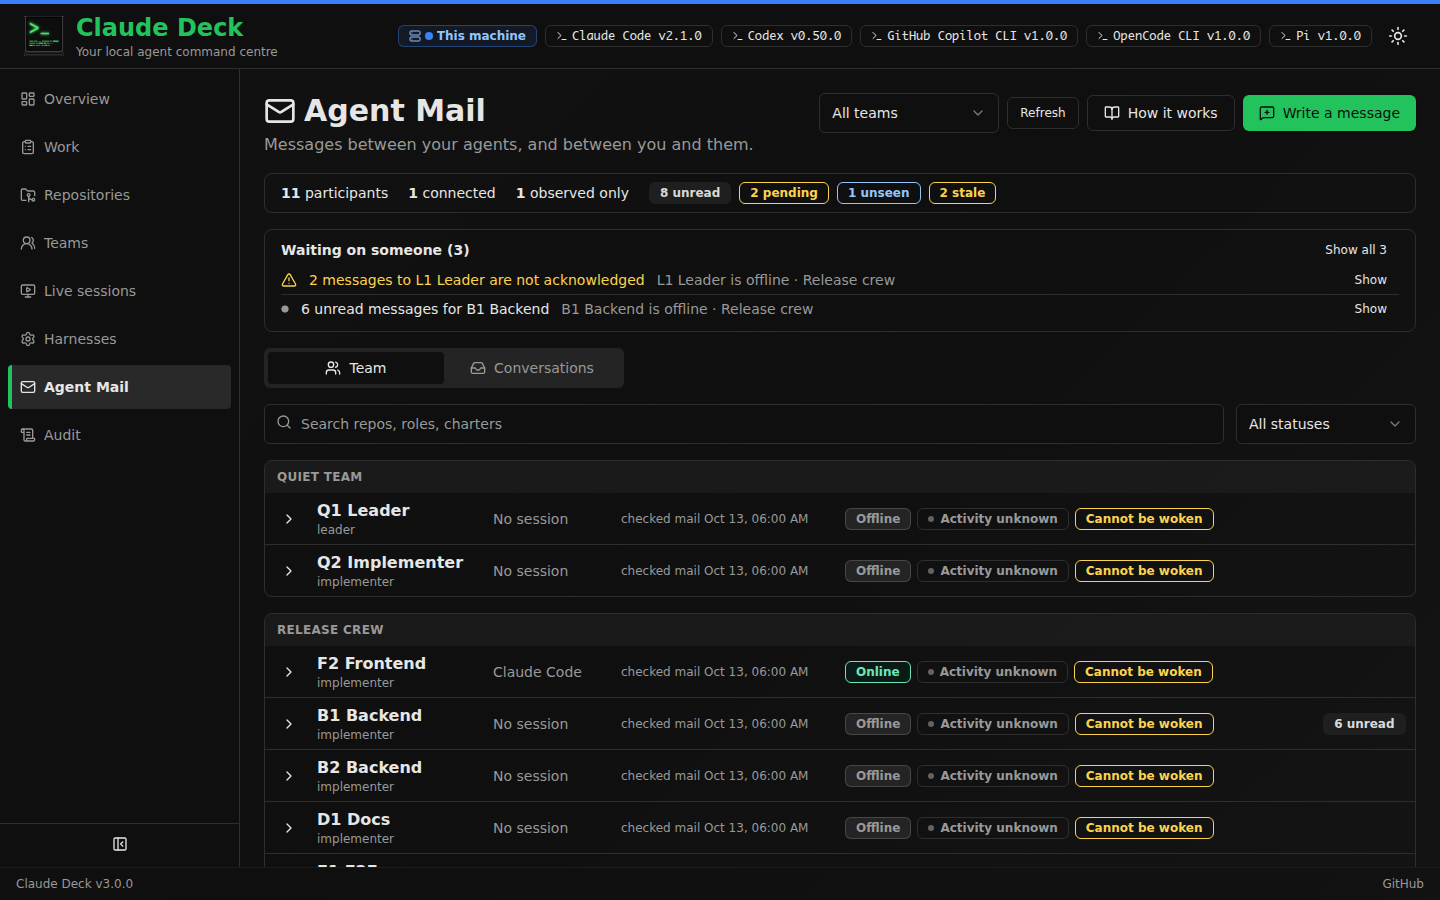
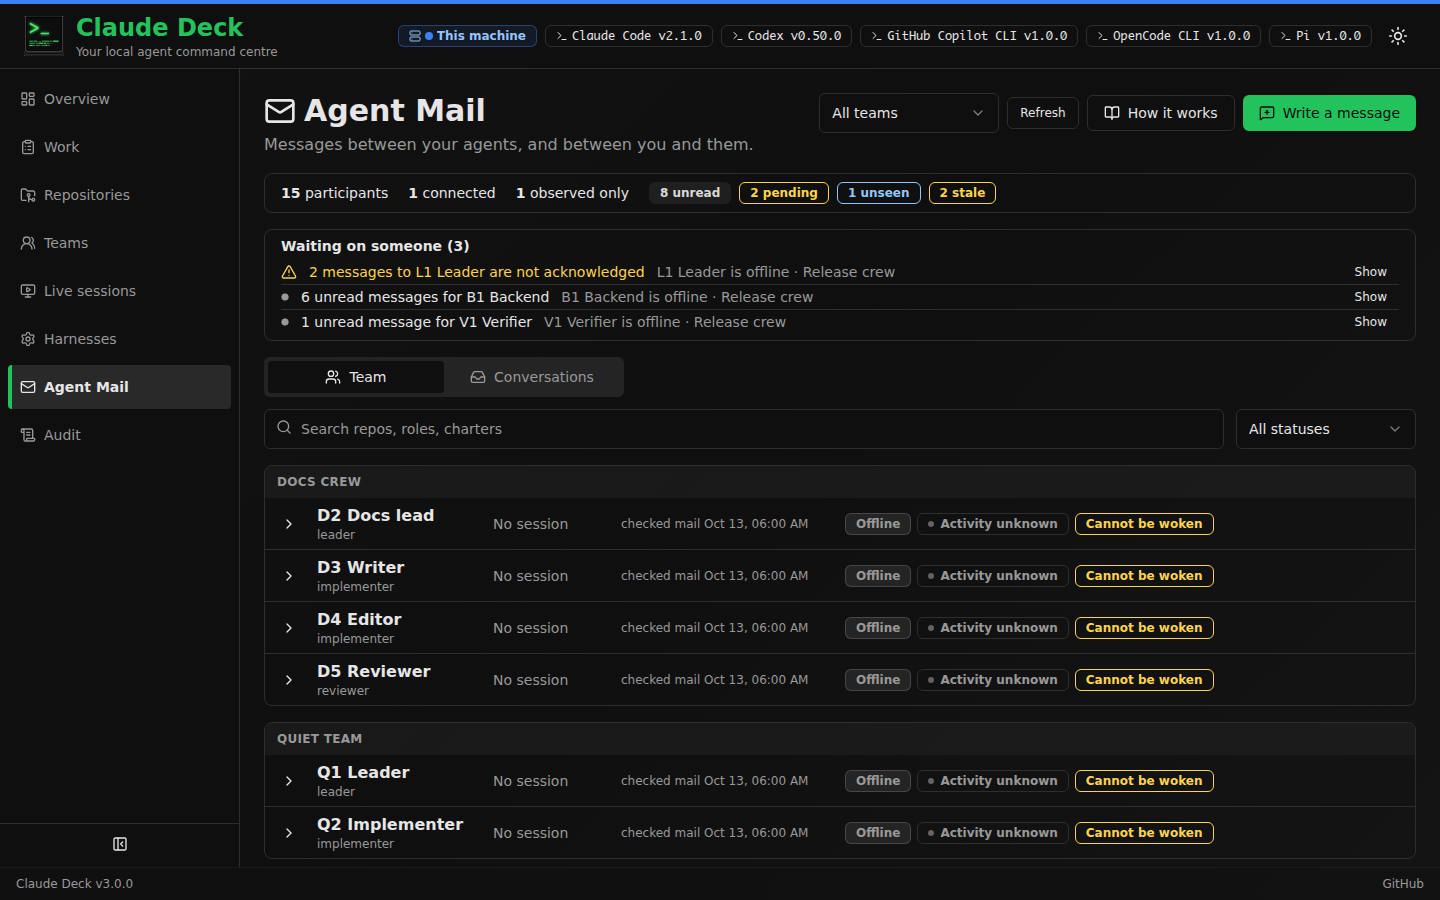
fix(agent-mail): show three compact Waiting items; activate the #530 fit journey
E1's #529 journey needs three waiting members in the panel. Show three
items by default in 24 px rows, with Show all N in the heading row beyond
three. Trim the spacing under the tabs. The last Quiet team row of Docs
crew (4) and Quiet team (2) ends at 858 px at 1440 x 900. Move the #530
fit journey from @pending to @active.

Refs #682

diff --git a/frontend/tests/agent-mail-conversations.test.tsx b/frontend/tests/agent-mail-conversations.test.tsx
@@ -189,12 +189,12 @@ describe('WaitingPanel', () => {
 
   it('puts a warning item in the first row even when it is the last member', () => {
     const members = [
-      member(20, 'Q1', { unread_count: 1 }), member(21, 'Q2', { unread_count: 2 }),
+      member(20, 'Q1', { unread_count: 1 }), member(21, 'Q2', { unread_count: 2 }), member(23, 'Q4', { unread_count: 3 }),
       member(22, 'Q3', { status: 'offline', pending_count: 1, stale_pending_count: 1 }),
     ]
     render(<WaitingPanel members={members} loading={false} recipientMemberId={null} onShowRecipient={vi.fn()} />)
     const rows = screen.getAllByRole('listitem')
-    expect(rows).toHaveLength(2)
+    expect(rows).toHaveLength(3)
     expect(rows[0]).toHaveTextContent('1 message to Q3 is not acknowledged')
     expect(within(rows[0]).getByRole('img', { name: 'Needs attention' })).toBeInTheDocument()
   })
@@ -205,11 +205,11 @@ describe('WaitingPanel', () => {
     expect(screen.getByText('Nobody is waiting on anyone.')).toBeInTheDocument()
   })
 
-  it('shows two items, warnings first, with the full count in the heading, and the rest on request', () => {
+  it('shows three items, warnings first, with the full count in the heading, and the rest on request', () => {
     const many = Array.from({ length: 6 }, (_, index) => member(10 + index, `M${index}`, { unread_count: 1 }))
     render(<WaitingPanel members={many} loading={false} recipientMemberId={null} onShowRecipient={vi.fn()} />)
     expect(screen.getByRole('heading', { name: 'Waiting on someone (6)' })).toBeInTheDocument()
-    expect(screen.getAllByRole('listitem')).toHaveLength(2)
+    expect(screen.getAllByRole('listitem')).toHaveLength(3)
     fireEvent.click(screen.getByRole('button', { name: 'Show all 6' }))
     expect(screen.getAllByRole('listitem')).toHaveLength(6)
   })

diff --git a/frontend/src/features/agent-mail/WaitingPanel.tsx b/frontend/src/features/agent-mail/WaitingPanel.tsx
@@ -6,7 +6,7 @@ import { buildWaiting, waitingDetail } from './conversations'
 import type { MailMemberResponse } from '@/types/agentMail'
 
 export const WAITING_PANEL_ID = 'waiting-on-someone'
-const VISIBLE_ITEMS = 2
+const VISIBLE_ITEMS = 3
 
 interface WaitingPanelProps {
   members: MailMemberResponse[]
@@ -34,7 +34,7 @@ export const WaitingPanel = forwardRef<HTMLElement, WaitingPanelProps>(function 
       id={WAITING_PANEL_ID}
       tabIndex={-1}
       aria-labelledby="waiting-on-someone-title"
-      className="rounded-lg border px-4 py-2 focus-visible:outline-none focus-visible:ring-2 focus-visible:ring-ring"
+      className="rounded-lg border px-4 py-1.5 focus-visible:outline-none focus-visible:ring-2 focus-visible:ring-ring"
     >
       <div className="flex items-center justify-between gap-3">
         <h2 id="waiting-on-someone-title" className="text-sm font-semibold">
@@ -53,7 +53,7 @@ export const WaitingPanel = forwardRef<HTMLElement, WaitingPanelProps>(function 
       ) : (
         <ul className="mt-1 divide-y">
           {shown.map((item) => (
-            <li key={item.key} className="flex flex-wrap items-center gap-x-3 gap-y-1 py-0.5 text-sm">
+            <li key={item.key} className="flex flex-wrap items-center gap-x-3 gap-y-1 py-0 text-sm">
               {item.warn ? (
                 <AlertTriangle role="img" aria-label="Needs attention" className="h-4 w-4 shrink-0 text-amber-700 dark:text-amber-300" />
               ) : (

diff --git a/frontend/src/features/agent-mail/AgentMailPage.tsx b/frontend/src/features/agent-mail/AgentMailPage.tsx
@@ -363,7 +363,7 @@ export function AgentMailPage() {
             Conversations
           </TabsTrigger>
         </TabsList>
-        <TabsContent value="team" className="mt-4">
+        <TabsContent value="team" className="mt-3">
           <TeamTab
             members={teamMembers}
             loading={loading}
@@ -377,7 +377,7 @@ export function AgentMailPage() {
             nudgingMemberId={nudgingMemberId}
           />
         </TabsContent>
-        <TabsContent value="conversations" className="mt-4">
+        <TabsContent value="conversations" className="mt-3">
           <ConversationsTab
             conversations={conversations}
             members={members}

diff --git a/frontend/e2e/lane-d/roster.spec.ts b/frontend/e2e/lane-d/roster.spec.ts
@@ -28,7 +28,7 @@ function row(page: Page, member: string) {
 // above the tabs now, so the last Quiet team row ends at 910 px, 10 px below
 // the viewport. #530 passed before #529 merged. Reported to L1 (#669); a
 // gate-fix issue for F2 activates this journey.
-test('@pending at 1440 × 900 all members of two teams are visible without scrolling', async ({ page }) => {
+test('@active at 1440 × 900 all members of two teams are visible without scrolling', async ({ page }) => {
   await showMailSetUp(page)
   await openAgentMail(page, 'Team')
   await expect(page.getByText('Agent setup required')).toHaveCount(0)
